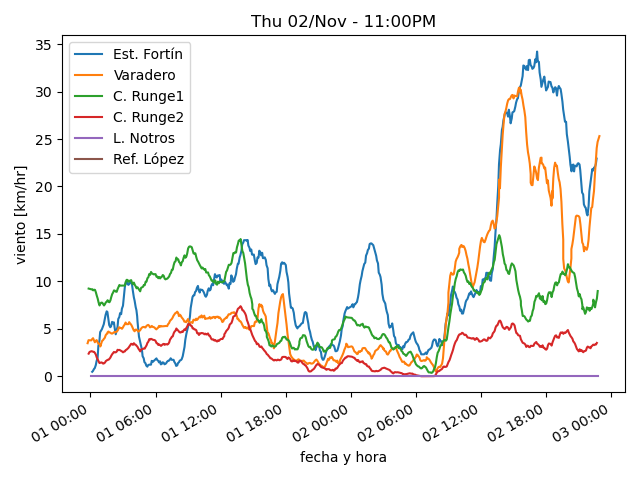
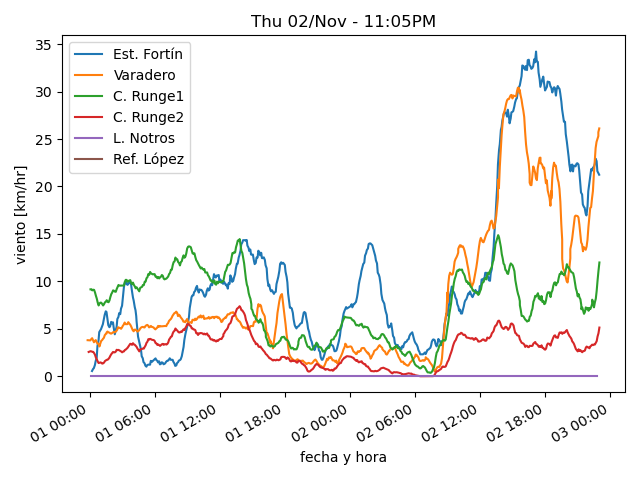
actualiza datos

diff --git a/estaciones/estacion2.html b/estaciones/estacion2.html
@@ -18,32 +18,32 @@
     </tr>
     <tr>
      <td class="stats_data">
-      10:54PM
+      10:59PM
      </td>
     </tr>
     <tr>
      <td class="stats_data">
-      8.9⁰C
+      8.8⁰C
      </td>
     </tr>
     <tr>
      <td class="stats_data">
-      4.1⁰C
+      3.7⁰C
      </td>
     </tr>
     <tr>
      <td class="stats_data">
-      72.1%
+      70.3%
      </td>
     </tr>
     <tr>
      <td class="stats_data">
-      1031.16hPa
+      1030.82hPa
      </td>
     </tr>
     <tr>
      <td class="stats_data">
-      17.1/23.3 km/hr WNW
+      16.3/21.6 km/hr WNW
      </td>
     </tr>
     <tr>

diff --git a/estaciones/estacion3.html b/estaciones/estacion3.html
@@ -18,32 +18,32 @@
     </tr>
     <tr>
      <td class="stats_data">
-      10:44PM
+      10:59PM
      </td>
     </tr>
     <tr>
      <td class="stats_data">
-      7.8⁰C
+      7.9⁰C
      </td>
     </tr>
     <tr>
      <td class="stats_data">
-      1.3⁰C
+      1.2⁰C
      </td>
     </tr>
     <tr>
      <td class="stats_data">
-      63.6%
+      62.7%
      </td>
     </tr>
     <tr>
      <td class="stats_data">
-      1010.63hPa
+      1010.74hPa
      </td>
     </tr>
     <tr>
      <td class="stats_data">
-      9.3/12.7 km/hr W
+      10.8/15.5 km/hr WSW
      </td>
     </tr>
     <tr>

diff --git a/estaciones/estacion1.html b/estaciones/estacion1.html
@@ -18,22 +18,22 @@
     </tr>
     <tr>
      <td class="stats_data">
-      10:38PM
+      10:58PM
      </td>
     </tr>
     <tr>
      <td class="stats_data">
-      7.8⁰C
+      7.6⁰C
      </td>
     </tr>
     <tr>
      <td class="stats_data">
-      2.4⁰C
+      2.1⁰C
      </td>
     </tr>
     <tr>
      <td class="stats_data">
-      68.5%
+      68.0%
      </td>
     </tr>
     <tr>
@@ -43,7 +43,7 @@
     </tr>
     <tr>
      <td class="stats_data">
-      11.1/22.5 km/hr SSW
+      18.6/20.1 km/hr SW
      </td>
     </tr>
     <tr>

diff --git a/estaciones/estacion4.html b/estaciones/estacion4.html
@@ -18,22 +18,22 @@
     </tr>
     <tr>
      <td class="stats_data">
-      10:39PM
+      10:59PM
      </td>
     </tr>
     <tr>
      <td class="stats_data">
-      7.5⁰C
+      7.7⁰C
      </td>
     </tr>
     <tr>
      <td class="stats_data">
-      0.5⁰C
+      0.2⁰C
      </td>
     </tr>
     <tr>
      <td class="stats_data">
-      61.3%
+      59.0%
      </td>
     </tr>
     <tr>
@@ -43,7 +43,7 @@
     </tr>
     <tr>
      <td class="stats_data">
-      3.7/5.5 km/hr SW
+      5.5/9.1 km/hr WSW
      </td>
     </tr>
     <tr>
